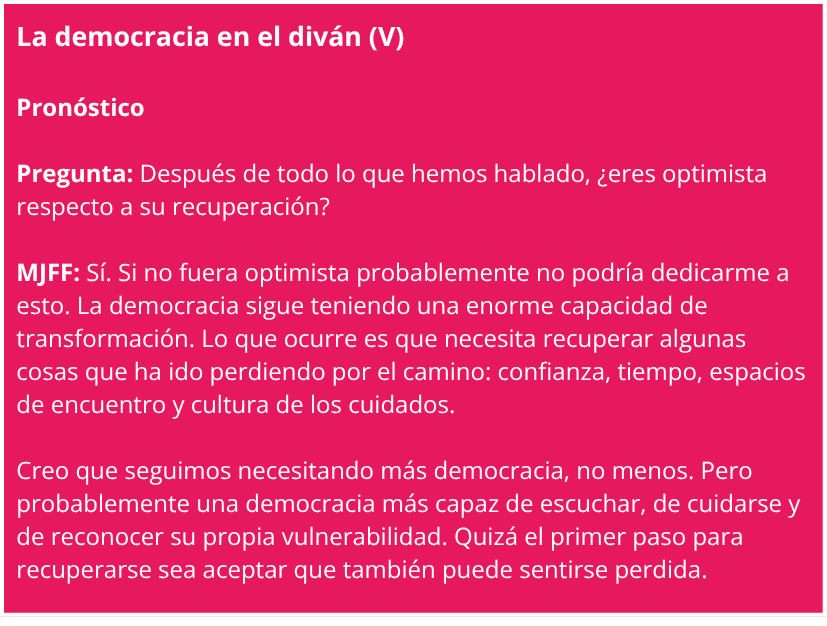
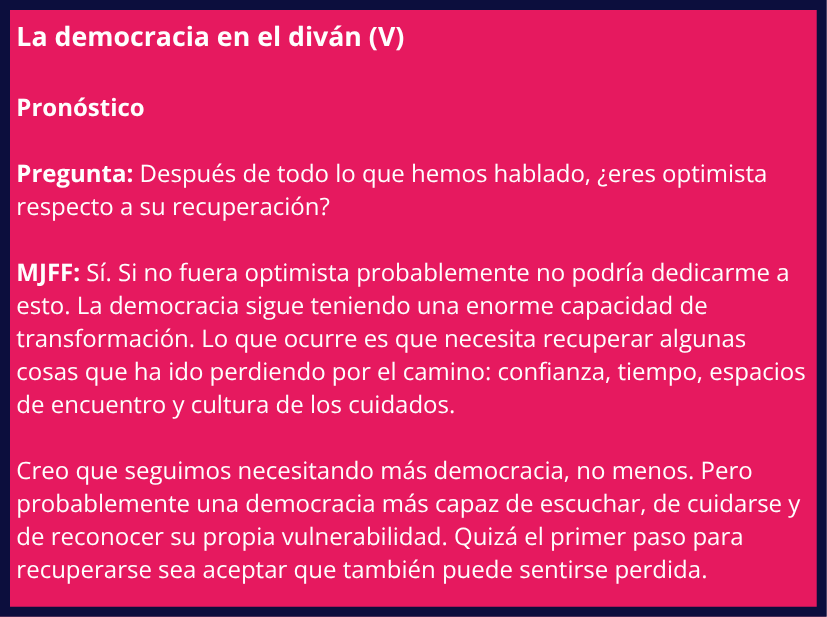
Update Artículo “masculinidades-conscientes”

Changed region(s): [[0.0, 0.0, 1.0, 1.0], [0.3023, 0.0616, 0.3325, 0.0924]]

diff --git a/_articles/es/masculinidades-conscientes.md b/_articles/es/masculinidades-conscientes.md
@@ -177,7 +177,7 @@ Desde ahí se puede construir reflexión.
 
 Y después vienen las herramientas: la educación emocional, la comunicación, la gestión de conflictos, la construcción de identidades más flexibles o la cultura de los cuidados. No estamos inventando algo completamente nuevo. Disponemos de décadas de experiencia sobre cómo fortalecer personas y comunidades. La cuestión es cómo hacer que esas herramientas resulten tan accesibles y emocionalmente atractivas como los discursos simplificados que circulan hoy por las redes.
 
-{% gallery { "simple": true, "images": [{"path":"/media/captura-de-pantalla-2026-08-07-a-las-12.03.19.png"}] } %}
+{% gallery { "simple": true, "images": [{"path":"/media/5.png"}] } %}
 
 ### **Los músculos que se están atrofiando**
 
